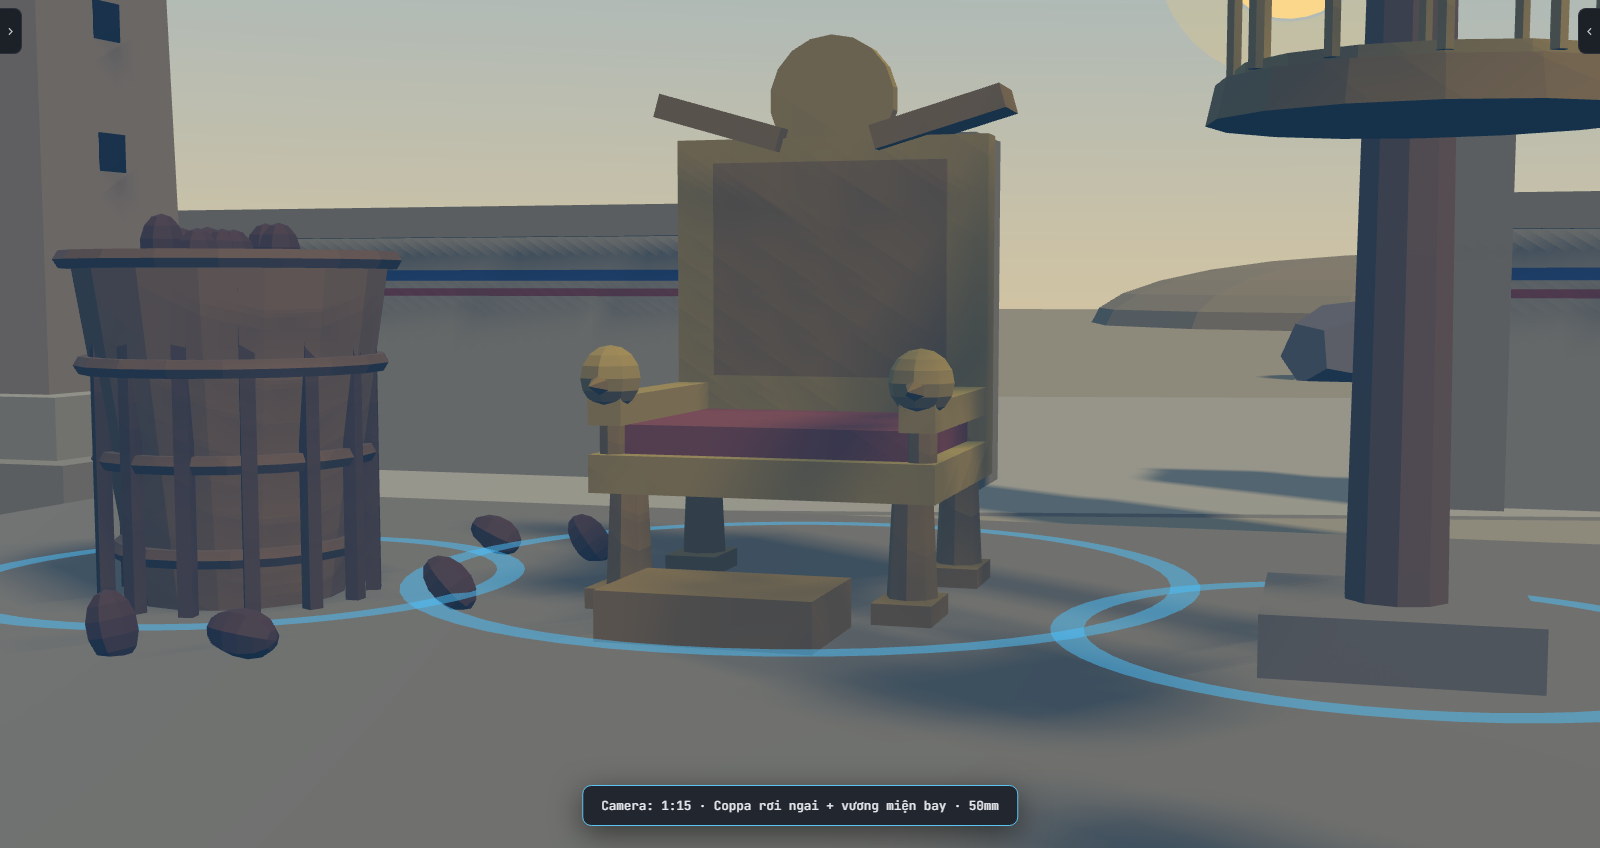
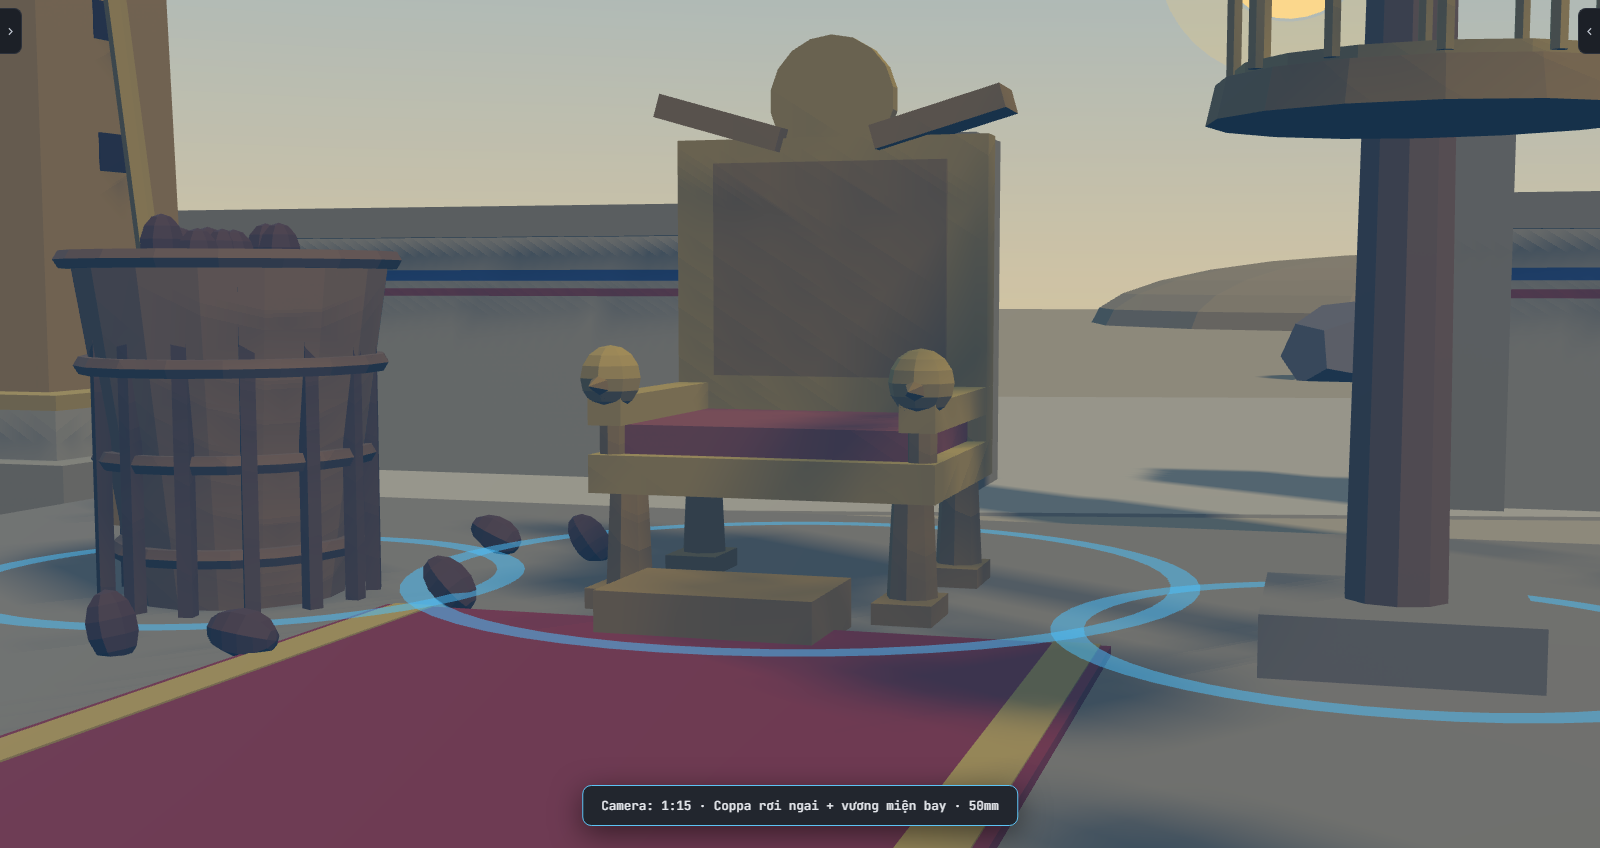
C3: them theo ref - 2 tuong meo Bastet den, obelisk vang, tham do loi giua, quat long, lo lua, co hieu; dam dong chua loi giua

Changed region(s): [[0.0, 0.7052, 0.6875, 1.0], [0.0625, 0.0, 0.0938, 0.092], [0.0, 0.4599, 0.0625, 0.4906]]

diff --git a/jenny-pixel-studio.html b/jenny-pixel-studio.html
@@ -3267,15 +3267,103 @@ function buildC3Obelisks(){
     const o=new THREE.Group();o.userData.partLabel='Obelisk '+(sd<0?'trái':'phải');o.position.x=sd*9;
     o.add(bx(3,1.2,3,PT.stone2,0,0,0));
     o.add(bx(2.4,.5,2.4,PT.stone,0,1.2,0));
-    const sh=frustumBox(1.8,1.8,1.15,1.15,18,'#cdb58f');sh.position.y=1.7+9;o.add(sh);
+    const sh=frustumBox(1.8,1.8,1.15,1.15,18,'#d9ab3f');sh.position.y=1.7+9;o.add(sh);
     const tip=cone(.82,1.6,EG.gold,4);tip.rotation.y=Math.PI/4;tip.position.y=1.7+18+.8;o.add(tip);
     const gl=[];for(let side=0;side<4;side++)for(let k=0;k<14;k++){
       const h=2.6+k*1.1, half=.9-(.9-.575)*(h-1.7)/18;
       const a=side*Math.PI/2;gl.push({p:[Math.sin(a)*(half+.01),h,Math.cos(a)*(half+.01)],r:[0,a,0],c:PT.dark});}
-    o.add(instParts(new THREE.BoxGeometry(.32,.32,.02),gl,PT.dark));
+    o.add(instParts(new THREE.BoxGeometry(.32,.32,.02),gl.map(t=>({...t,c:'#7a4f1c'})),'#7a4f1c'));
+    const trim=box(2.5,.12,2.5,EG.gold);trim.position.y=1.66;o.add(trim);
     g.add(o);
   });
   g.userData.h=21.3;
+  return g;
+}
+
+/* ── TƯỢNG MÈO BASTET đen ngồi trên bệ (ref): vòng cổ vàng, bông tai, mặt dây ankh ── */
+function buildBastet(){
+  const g=new THREE.Group();
+  const K='#24222b', GD=EG.gold;
+  const ped=new THREE.Group();ped.userData.partLabel='Bệ đá';g.add(ped);
+  ped.add(bx(3.4,2.2,4.4,PT.stone,0,0,0));
+  ped.add(bx(3.9,.3,4.9,PT.stone2,0,2.2,0));
+  ped.add(bx(3.5,.12,.04,PT.blue,0,1.75,2.21));ped.add(bx(3.5,.08,.04,PT.red,0,1.58,2.21));
+  ped.add(instParts(new THREE.BoxGeometry(.3,.3,.03),Array.from({length:12},(_,k)=>({p:[-1.25+(k%6)*.5,.55+Math.floor(k/6)*.55,2.21],c:k%3?PT.dark:GD})),PT.dark));
+  const cat=new THREE.Group();cat.userData.partLabel='Mèo Bastet';cat.position.y=2.5;g.add(cat);
+  const put=(m,x,y,z)=>{m.position.set(x,y,z);cat.add(m);return m;};
+  put(sph(1.3,K,14),0,1.1,-.7).scale.set(1,1,1.2);                     // hông ngồi
+  put(cyl(.85,1.2,3.2,K,14),0,2.4,-.25).rotation.x=-.15;               // thân
+  put(sph(.95,K,14),0,3.15,.35);                                       // ngực
+  [-.45,.45].forEach(x=>{put(cyl(.28,.32,2.6,K,10),x,1.3,.8);put(sph(.38,K,10),x,.2,1.0).scale.set(1,.6,1.3);});
+  put(sph(.85,K,14),0,4.6,.25);                                        // đầu
+  put(sph(.42,K,10),0,4.35,.85).scale.set(1,.8,1);                     // mõm
+  put(box(.16,.1,.08,'#3a2c30'),0,4.5,1.24);                           // mũi
+  [-1,1].forEach(sd=>{
+    const e=put(cone(.36,.95,K,3),sd*.45,5.45,.1);e.rotation.z=-sd*.2;   // tai nhọn
+    const ey=new THREE.Mesh(new THREE.SphereGeometry(.15,10,8),new THREE.MeshBasicMaterial({color:'#f2c230'}));
+    ey.scale.set(1.3,.8,.5);put(ey,sd*.32,4.75,.8);                      // mắt vàng
+    put(box(.04,.18,.05,'#111'),sd*.32,4.75,.87);                        // đồng tử khe
+    put(torus3(.13,.035,GD,12),sd*.72,4.55,.25).rotation.set(0,0,Math.PI/2);  // bông tai
+  });
+  const col1=put(torus3(.98,.16,GD,24),0,3.85,.2);col1.rotation.x=-Math.PI/2+.4;   // vòng cổ vàng bản rộng
+  const col2=put(torus3(1.02,.08,PT.blue,24),0,3.6,.28);col2.rotation.x=-Math.PI/2+.4;
+  const col3=put(torus3(1.06,.06,PT.red,24),0,3.42,.34);col3.rotation.x=-Math.PI/2+.4;
+  const ak=put(torus3(.15,.05,GD,12),0,3.3,1.3);ak.rotation.set(0,0,0);  // ankh: vòng
+  put(box(.09,.45,.06,GD),0,2.95,1.3);put(box(.4,.09,.06,GD),0,3.08,1.3);
+  const tail=new THREE.Mesh(new THREE.TorusGeometry(1.1,.14,6,16,Math.PI*.9),mat(K));
+  tail.rotation.set(-Math.PI/2,0,.1);put(tail,0,.12,.1);               // đuôi cuộn quanh chân trước
+  g.userData.h=8.4;
+  return g;
+}
+function buildC3Cats(){
+  const g=new THREE.Group();
+  [-1,1].forEach(sd=>{const c=buildBastet();c.position.x=sd*13.5;c.rotation.y=-sd*.12;c.userData.partLabel='Tượng mèo Bastet '+(sd<0?'trái':'phải');g.add(c);});
+  g.userData.h=8.4;return g;
+}
+
+/* ── LỄ VẬT QUANH BỤC (ref): thảm đỏ viền vàng, 2 quạt lông, lò lửa, cờ hiệu dọc lối ── */
+function brazier(){
+  const b=new THREE.Group();
+  for(let k=0;k<3;k++){const a=k/3*Math.PI*2;const l=cyl(.04,.05,1.1,EG.gold2,5);l.position.set(Math.cos(a)*.22,.55,Math.sin(a)*.22);l.rotation.set(Math.sin(a)*.25,0,-Math.cos(a)*.25);b.add(l);}
+  const bw=cyl(.42,.22,.32,EG.gold2,12);bw.position.y=1.2;b.add(bw);
+  const fl=new THREE.Mesh(new THREE.ConeGeometry(.3,.7,8),new THREE.MeshBasicMaterial({color:'#ffae3a'}));fl.position.y=1.7;b.add(fl);
+  const fl2=new THREE.Mesh(new THREE.ConeGeometry(.16,.45,6),new THREE.MeshBasicMaterial({color:'#fff0a0'}));fl2.position.y=1.62;b.add(fl2);
+  return b;
+}
+function buildC3Regalia(){
+  const g=new THREE.Group();
+  const sub=label=>{const s2=new THREE.Group();s2.userData.partLabel=label;g.add(s2);return s2;};
+  const RED='#a8262a';
+  // thảm: mặt bục → 3 bậc → chạy dọc lối giữa đám đông
+  const cp=sub('Thảm đỏ viền vàng');
+  const run=(z0,z1,y)=>{const L=z1-z0;cp.add(bx(2.4,.03,L,RED,0,y,(z0+z1)/2));[-1,1].forEach(sd=>cp.add(bx(.14,.035,L,EG.gold,sd*1.1,y,(z0+z1)/2)));};
+  run(-.4,3.7,1.5);run(3.7,4.4,1.0);run(4.4,5.1,.5);run(5.1,34,0);
+  [[3.7,1.0,1.5],[4.4,.5,1.0],[5.1,0,.5]].forEach(([z,y0,y1])=>cp.add(bx(2.4,y1-y0,.03,RED,0,y0,z+.02)));
+  cp.add(instParts(new THREE.BoxGeometry(.5,.035,.5),Array.from({length:14},(_,k)=>({p:[0,.02,7+k*2],r:[0,.785,0],c:EG.gold})),EG.gold));
+  // 2 quạt lông đà điểu (flabellum) cắm hai bên ngai
+  const fan=sub('2 quạt lông trắng');
+  [-1,1].forEach(sd=>{
+    const f=new THREE.Group();f.position.set(sd*3.3,1.5,-2.2);f.rotation.z=-sd*.12;
+    f.add(bx(.5,.2,.5,EG.gold2,0,0,0));
+    const pole=cyl(.05,.05,3.2,EG.gold,6);pole.position.y=1.8;f.add(pole);
+    for(let k=0;k<9;k++){const a=(k/8-.5)*2.3;const fe=sph(.32,EG.linen,8);fe.scale.set(.55,1.9,.2);fe.position.set(Math.sin(a)*.75,3.55+Math.cos(a)*.75,0);fe.rotation.z=-a;f.add(fe);}
+    fan.add(f);
+  });
+  // lò lửa: 2 góc bục + 2 chân bậc + dọc lối
+  const br=sub('Lò lửa đồng');
+  [[-3.6,1.5,2.7],[3.6,1.5,2.7],[-3.2,0,6],[3.2,0,6],[-2,0,20],[2,0,20]].forEach(([x,y,z])=>{const b=brazier();b.position.set(x,y,z);br.add(b);});
+  // cờ hiệu dọc lối giữa (xanh-đỏ-vàng, đầu gắn đĩa mặt trời)
+  const fl=sub('Cờ hiệu dọc lối giữa');
+  [10,16,22].forEach((z,k)=>[-1,1].forEach(sd=>{
+    const x=sd*1.55;
+    const p=cyl(.05,.05,4.6,EG.wood2,6);p.position.set(x,2.3,z);fl.add(p);
+    const d=gmesh(new THREE.CylinderGeometry(.22,.22,.05,14),EG.gold);d.rotation.x=Math.PI/2;d.position.set(x,4.75,z);fl.add(d);
+    const fx=x+sd*.45;                                // lá cờ mặt hướng ra cổng (nhìn thấy từ phía dân quỳ)
+    fl.add(bx(.8,1.5,.05,[PT.red,PT.blue][(k+(sd>0))%2],fx,2.9,z));
+    fl.add(bx(.8,.12,.06,EG.gold,fx,3.02,z));fl.add(bx(.8,.12,.06,EG.gold,fx,4.28,z));
+    fl.add(bx(.3,.3,.06,EG.gold,fx,3.5,z+.01));
+  }));
+  g.userData.h=5;
   return g;
 }
 
@@ -3304,7 +3392,8 @@ function buildCrowdKneel(){
     const col=i%20;
     const rad=9+row*2.7+R()*.8;
     const spread=(col/19-.5)*2;                       // -1..1
-    const ang=spread*(0.95-row*0.03);                 // quạt hẹp dần về sau
+    const amax=0.95-row*0.03, gap=2.2/rad;           // quạt hẹp dần về sau; chừa lối giữa rộng ~4.4 m
+    const ang=Math.sign(spread||1)*(gap+Math.abs(spread)*(amax-gap));
     const x=Math.sin(ang)*rad+(R()-.5)*.5;
     const z=Math.cos(ang)*rad+(R()-.5)*.5;
     list.push({x,z,ry:Math.atan2(-x,-z),s:.95+R()*.15});  // quay mặt về bục (gốc)
@@ -5083,6 +5172,8 @@ regPart('c3_columns','Hành lang cột có mái (portico)',buildColumnRow);
 regPart('c3_pylon','Cổng tháp pylon + cột cờ',buildC3Pylon);
 regPart('c3_obelisks','Hai obelisk kẹp mặt trời',buildC3Obelisks);
 regPart('c3_backwall','Tường thấp khép sau sân',buildC3BackWall);
+regPart('c3_cats','2 tượng mèo Bastet đen',buildC3Cats);
+regPart('c3_regalia','Thảm đỏ + quạt lông + lò lửa + cờ hiệu',buildC3Regalia);
 regPart('c3_crowd','Đám đông quỳ (200)',buildCrowdKneel);
 regPart('c3_guards','2 lính gác cầm giáo',buildGuards);
 regPart('c3_sun','Khóa hướng mặt trời C3',buildSunLock);
@@ -5160,6 +5251,8 @@ const C3_PARTS=[
   {k:'c3_pylon',    p:[-45,0,51]},
   {k:'c3_obelisks', p:[-45,0,-8]},
   {k:'c3_backwall', p:[-45,0,-17]},
+  {k:'c3_cats',     p:[-45,0,-9]},
+  {k:'c3_regalia',  p:[-45,0,0]},
   {k:'c3_guards',   p:[-45,1.5,2.2]},
   {k:'c3_crowd',    p:[-45,0,0]},
   {k:'c3_sun',      p:[-45,0,0]},
